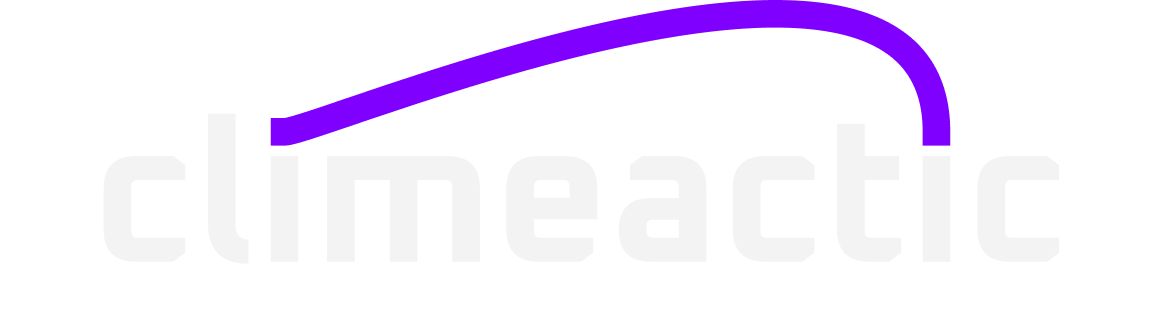
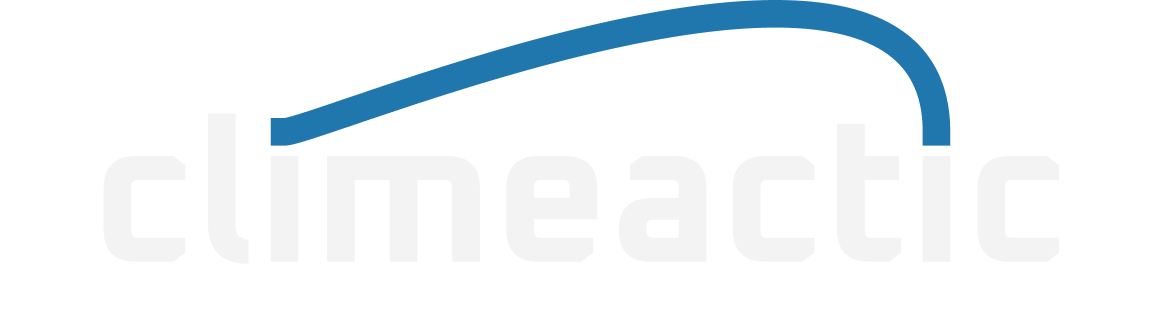
color scheme change

Changed region(s): [[0.2172, 0.0, 0.8379, 0.4904]]

diff --git a/css/main.css b/css/main.css
@@ -133,11 +133,11 @@ iframe {
   min-height: 100%;
   padding: 15px;
 
-  background: #8000ff;
-  background: -webkit-linear-gradient(top, #8000ff, #8000ff);
-  background: -o-linear-gradient(top, #8000ff, #8000ff);
-  background: -moz-linear-gradient(top, #8000ff, #8000ff);
-  background: linear-gradient(top, #8000ff, #8000ff);
+  background: #2077AD;
+  background: -webkit-linear-gradient(top, #2077AD, #2077AD);
+  background: -o-linear-gradient(top, #2077AD, #2077AD);
+  background: -moz-linear-gradient(top, #2077AD, #2077AD);
+  background: linear-gradient(top, #2077AD, #2077AD);
 
   display: -webkit-box;
   display: -webkit-flex;
@@ -188,7 +188,7 @@ iframe {
   display: block;
   font-family: Montserrat-ExtraBold;
   font-size: 24px;
-  color: #8000ff;
+  color: #2077AD;
   line-height: 1.2;
   text-align: center;
   padding-bottom: 0;
@@ -307,7 +307,7 @@ textarea.input1 + .shadow-input1 {
 }
 
 .contact1-form-btn:hover {
-  background: #8000ff;
+  background: #2077AD;
 }
 
 .contact1-form-btn:hover i {
